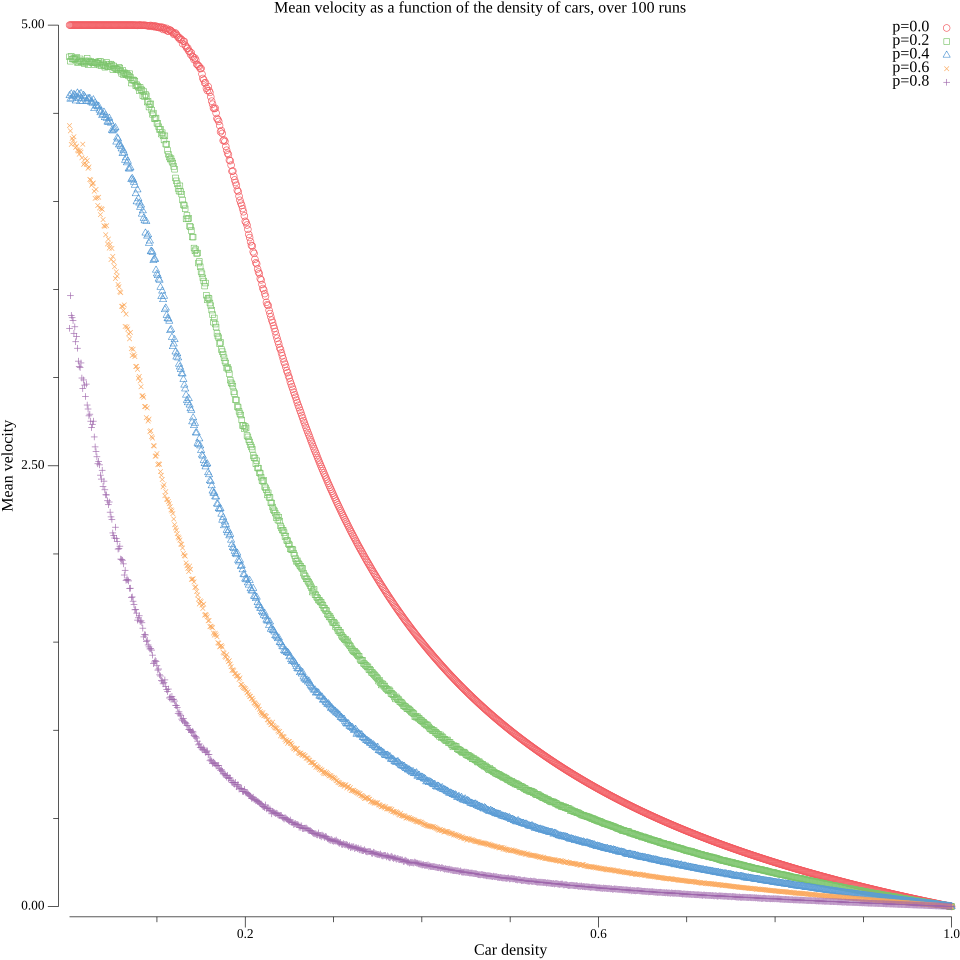
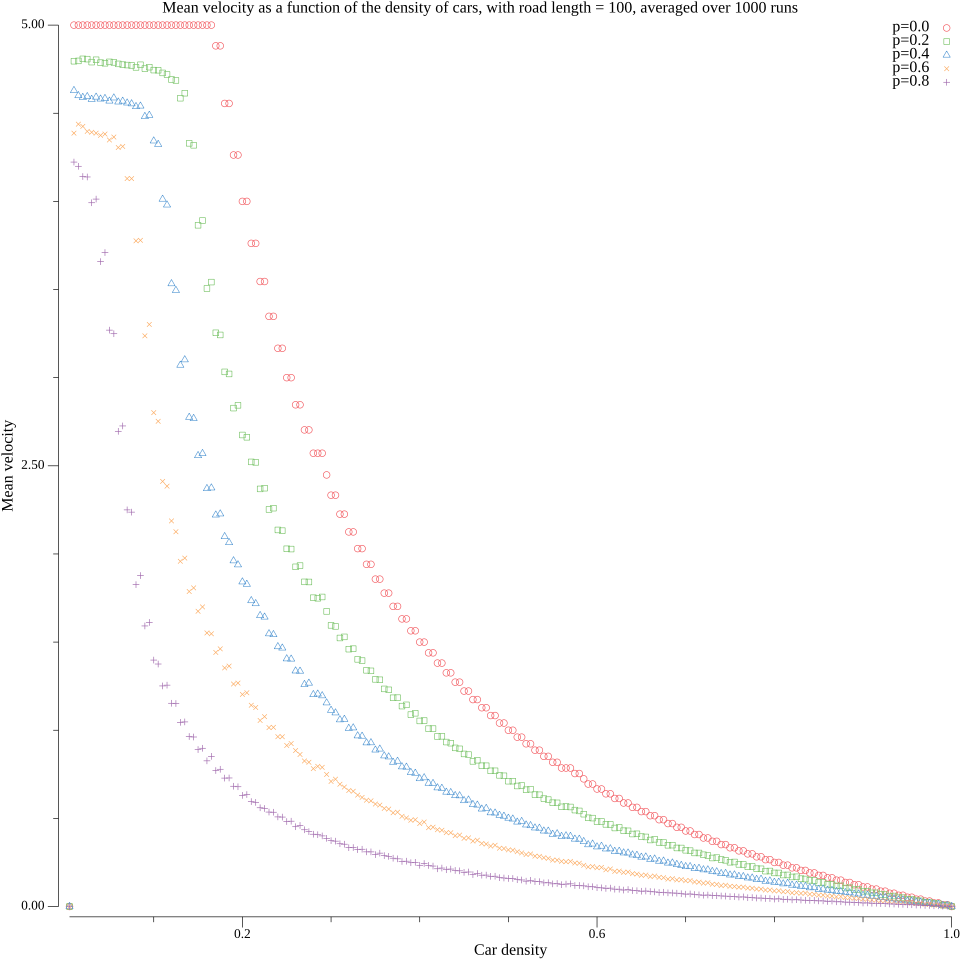
- change the initialisation method - mean velocity on 100 long road - grid 3x3

diff --git a/projects/agent_based_modelling/assignment_4/batch/batch.go b/projects/agent_based_modelling/assignment_4/batch/batch.go
@@ -12,15 +12,15 @@ import (
 
 const (
 	MaxVelocity = 5
-	Steps       = 20
+	Steps       = 50
 	RoadLength  = 100
-	NumPoints   = 1000
-	Runs        = 100
+	NumPoints   = 200
+	Runs        = 1000
 )
 
 func PlotMeanVelocities() {
 	p := plot.New()
-	p.Title.Text = fmt.Sprintf("Mean velocity as a function of the density of cars, over %d runs", Runs)
+	p.Title.Text = fmt.Sprintf("Mean velocity as a function of the density of cars, with road length = %d, averaged over %d runs", RoadLength, Runs)
 	p.X.Label.Text = "Car density"
 	p.Y.Label.Text = "Mean velocity"
 	p.Legend.Top = true

diff --git a/projects/agent_based_modelling/assignment_4/model/model.go b/projects/agent_based_modelling/assignment_4/model/model.go
@@ -27,10 +27,10 @@ func New(params Params) *Model {
 		Road:   road.New(params.RoadLength),
 	}
 
-	for n := range params.RoadLength {
-		if rand.Float64() < params.CarDensity {
-			model.Road.Lane[n] = car.New(params.MaxVelocity)
-		}
+	numCars := int(float64(params.RoadLength) * params.CarDensity)
+	for range numCars {
+		n := model.Road.RandomUnoccupiedSpace()
+		model.Road.Lane[n] = car.New(params.MaxVelocity)
 	}
 
 	return &model

diff --git a/projects/agent_based_modelling/assignment_4/model/road/road.go b/projects/agent_based_modelling/assignment_4/model/road/road.go
@@ -2,6 +2,7 @@ package road
 
 import (
 	"main/model/road/car"
+	"math/rand"
 )
 
 type Road struct {
@@ -18,4 +19,13 @@ func New(length int) *Road {
 
 func (r *Road) IsOccupied(n int) bool {
 	return r.Lane[n%r.length] != nil
+}
+
+func (r *Road) RandomUnoccupiedSpace() int {
+	for {
+		n := rand.Intn(r.length)
+		if !r.IsOccupied(n) {
+			return n
+		}
+	}
 }

diff --git a/projects/agent_based_modelling/assignment_4/main.go b/projects/agent_based_modelling/assignment_4/main.go
@@ -32,7 +32,7 @@ func plotGraph() {
 
 func plotGrid() {
 	densities := []float64{0.1, 0.3, 0.6}
-	probabilities := []float64{0.0, 0.3, 0.6, 0.9}
+	probabilities := []float64{0.0, 0.3, 0.6}
 
 	paramsGrid := make([][]model.Params, len(densities))
 	for i, density := range densities {
